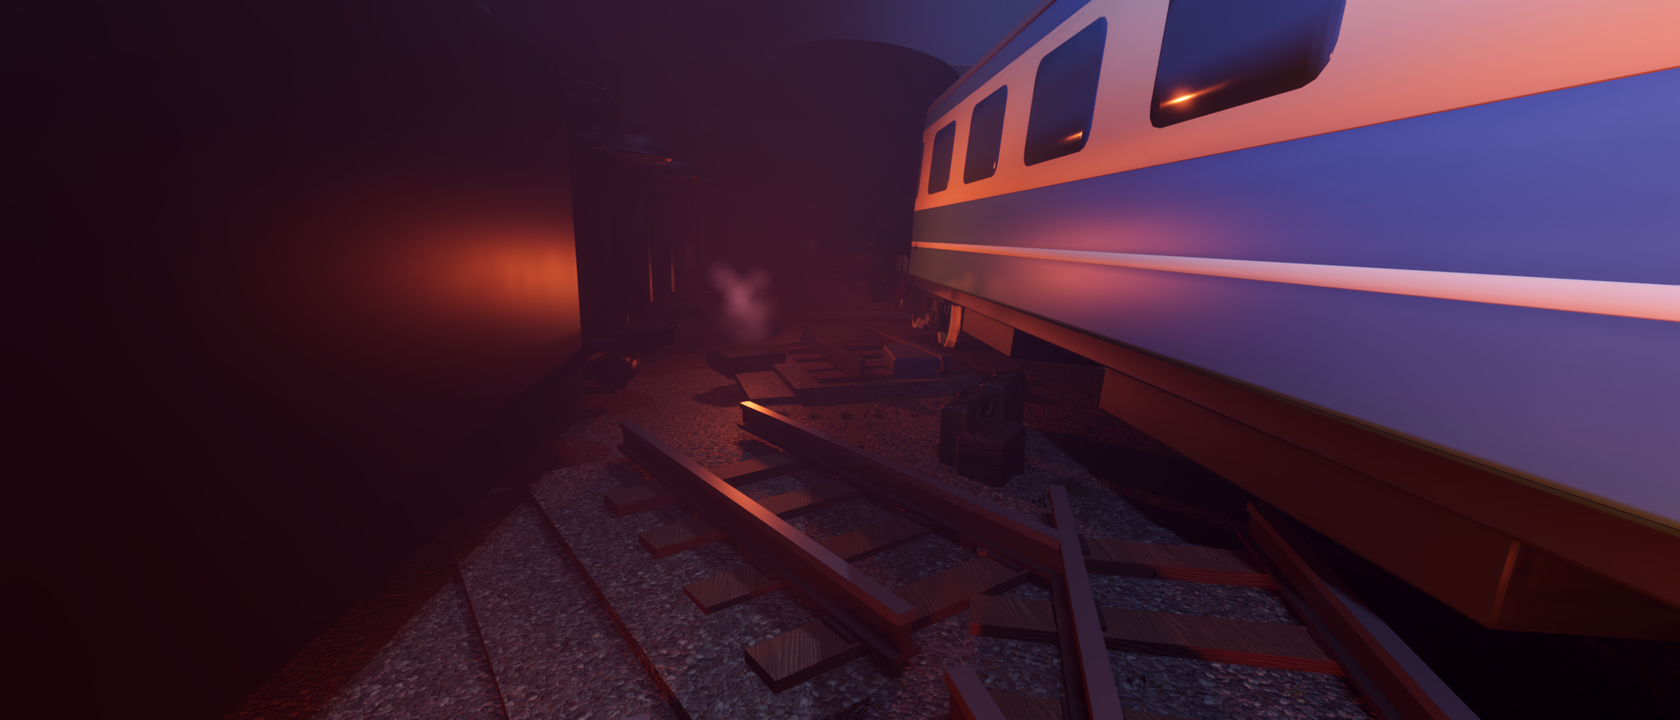
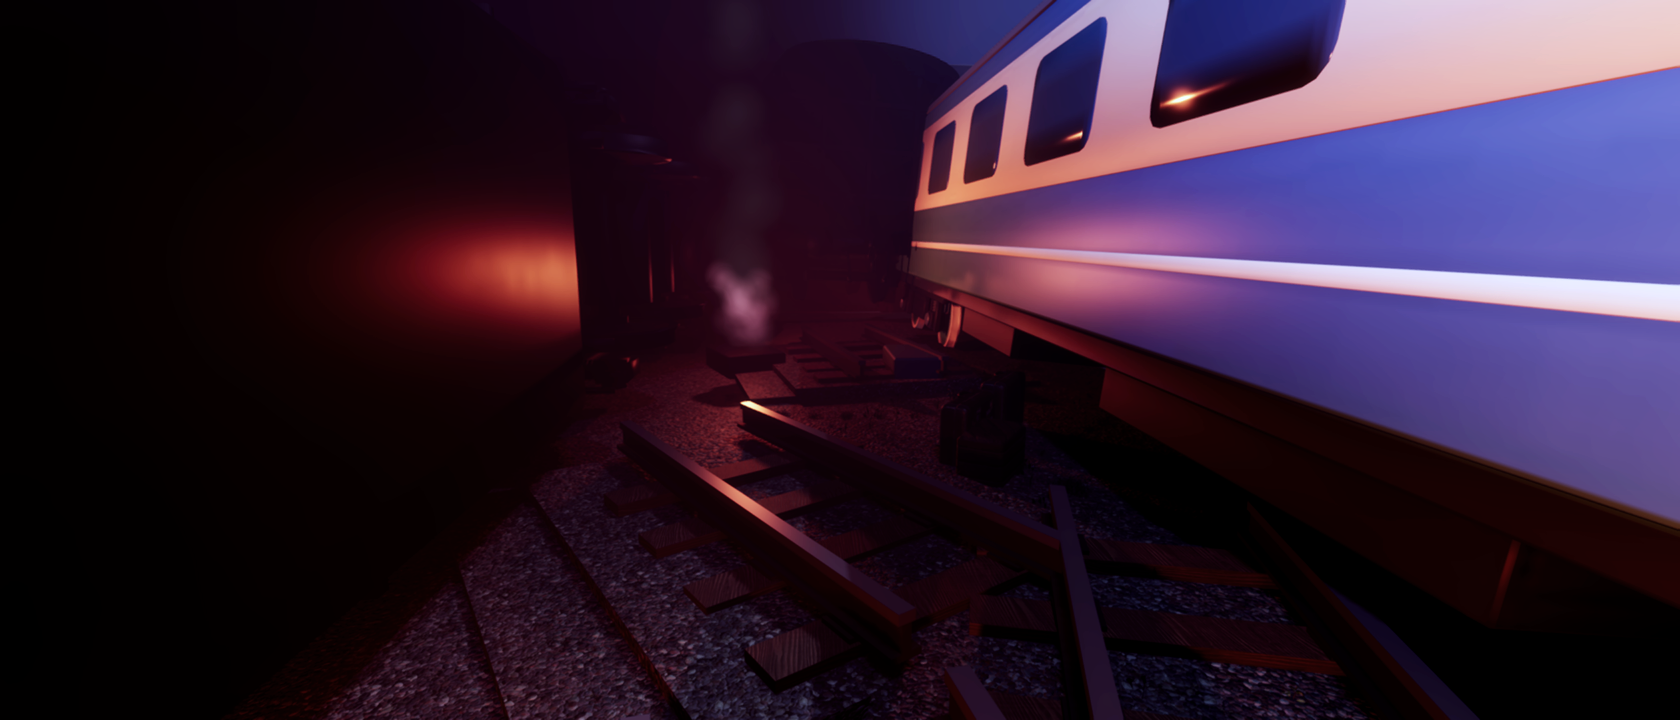
Fondos de Tren descarrilado corregidos de color (menos rojo) y con relleno de luz en el extremo oeste
Claude-Session: https://claude.ai/code/session_01JEaRkRBEtcTbxdj5X3J2Qv

diff --git a/tools/prerender/derailed_train_scene.py b/tools/prerender/derailed_train_scene.py
@@ -59,15 +59,18 @@ ph("dry_branches_medium_01", (-8.3, 0.0, 4.4), 0.3)
 for i, (x, y, z, e, r) in enumerate([(6.3, 1.3, -0.1, 3.2, 9.0), (-3.6, 1.0, -0.3, 2.4, 8.0), (11.5, 1.6, 0.6, 3.5, 10.0), (16.0, 1.6, 1.0, 3.0, 9.0)]):
     s.node("FireLight%d" % i, "OmniLight3D", ".", position=v3((x, y, z)), light_color=col((1.0, 0.45, 0.14)), light_energy=fmt(e),
            omni_range=fmt(r), shadow_enabled="true", light_volumetric_fog_energy="3.5")
-s.node("SmokeLoco", "FogVolume", ".", position=v3((3.0, 3.2, -1.2)), size=v3((14.0, 6.0, 5.0)),
+s.node("SmokeLoco", "FogVolume", ".", position=v3((-1.0, 3.2, -1.2)), size=v3((22.0, 6.0, 5.0)),
        material=s.subres("FogMaterial", {"density": "0.55", "albedo": col((0.26, 0.24, 0.24)), "emission": col((0.1, 0.04, 0.02)),
                                          "height_falloff": "0.35", "edge_fade": "0.5"}))
 s.node("SmokeTunnel", "FogVolume", ".", position=v3((14.0, 2.4, 0.8)), size=v3((8.0, 5.0, 5.0)),
        material=s.subres("FogMaterial", {"density": "1.2", "albedo": col((0.3, 0.27, 0.26)), "emission": col((0.3, 0.1, 0.03)),
                                          "height_falloff": "0.8", "edge_fade": "0.5"}))
 # Lámpara de la puerta de servicio (muro oeste): que se vea la puerta por la que llegó Isabella.
-s.node("DoorLamp", "OmniLight3D", ".", position=v3((-12.0, 2.5, 1.0)), light_color=col((1.0, 0.6, 0.28)), light_energy="3.0",
-       omni_range="6.5", shadow_enabled="true", light_volumetric_fog_energy="1.5")
+s.node("DoorLamp", "OmniLight3D", ".", position=v3((-12.0, 2.5, 1.0)), light_color=col((1.0, 0.6, 0.28)), light_energy="7.0",
+       omni_range="9.0", shadow_enabled="true", light_volumetric_fog_energy="1.5")
+# Relleno frío en el extremo oeste, para que se vea la puerta y la llegada de Isabella.
+s.node("WestFill", "OmniLight3D", ".", position=v3((-9.0, 3.2, 1.0)), light_color=col((0.55, 0.65, 0.95)), light_energy="3.0",
+       omni_range="9.0", shadow_enabled="true")
 s.node("MoonFill", "OmniLight3D", ".", position=v3((-2.0, 5.2, 1.2)), light_color=col((0.55, 0.65, 0.95)), light_energy="4.0",
        omni_range="22.0", shadow_enabled="true")
 os.makedirs(ROOT + "/render_src/scenes", exist_ok=True)
